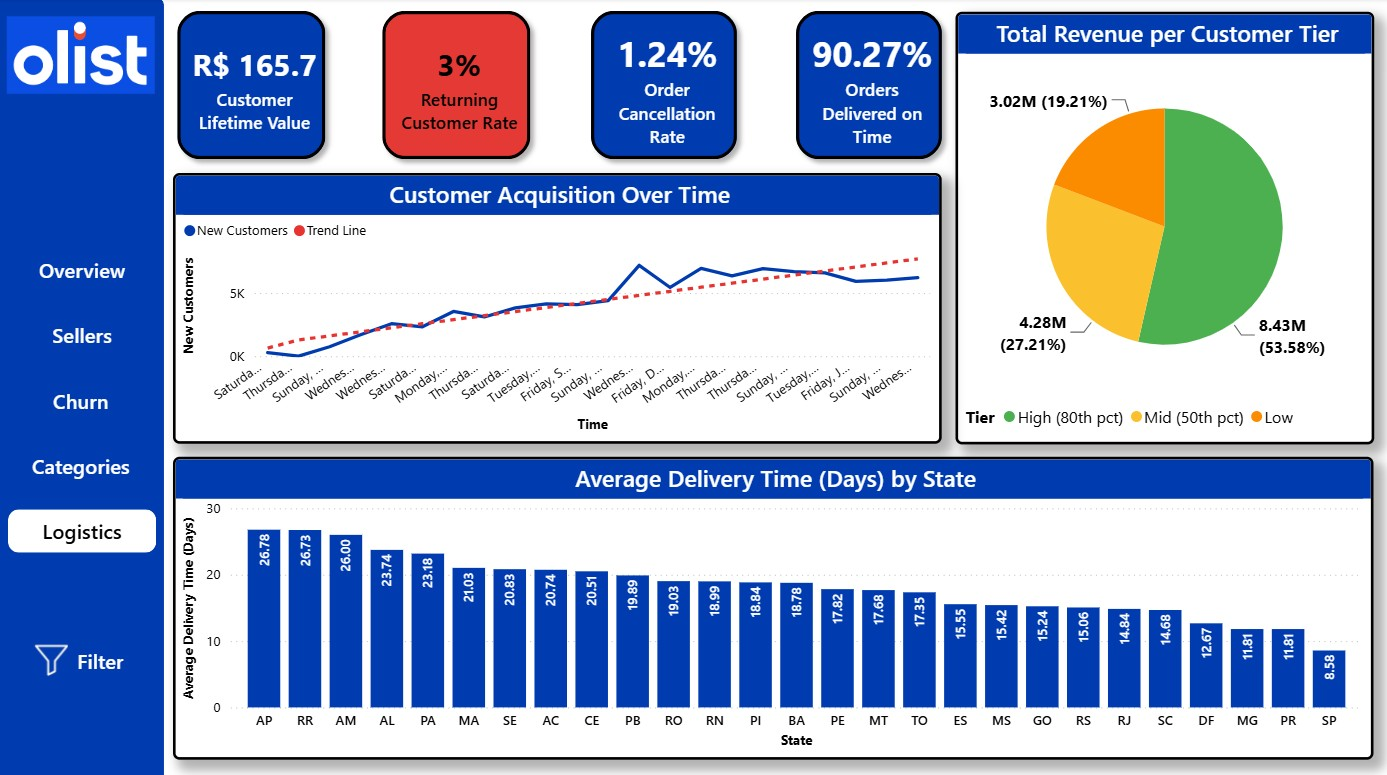
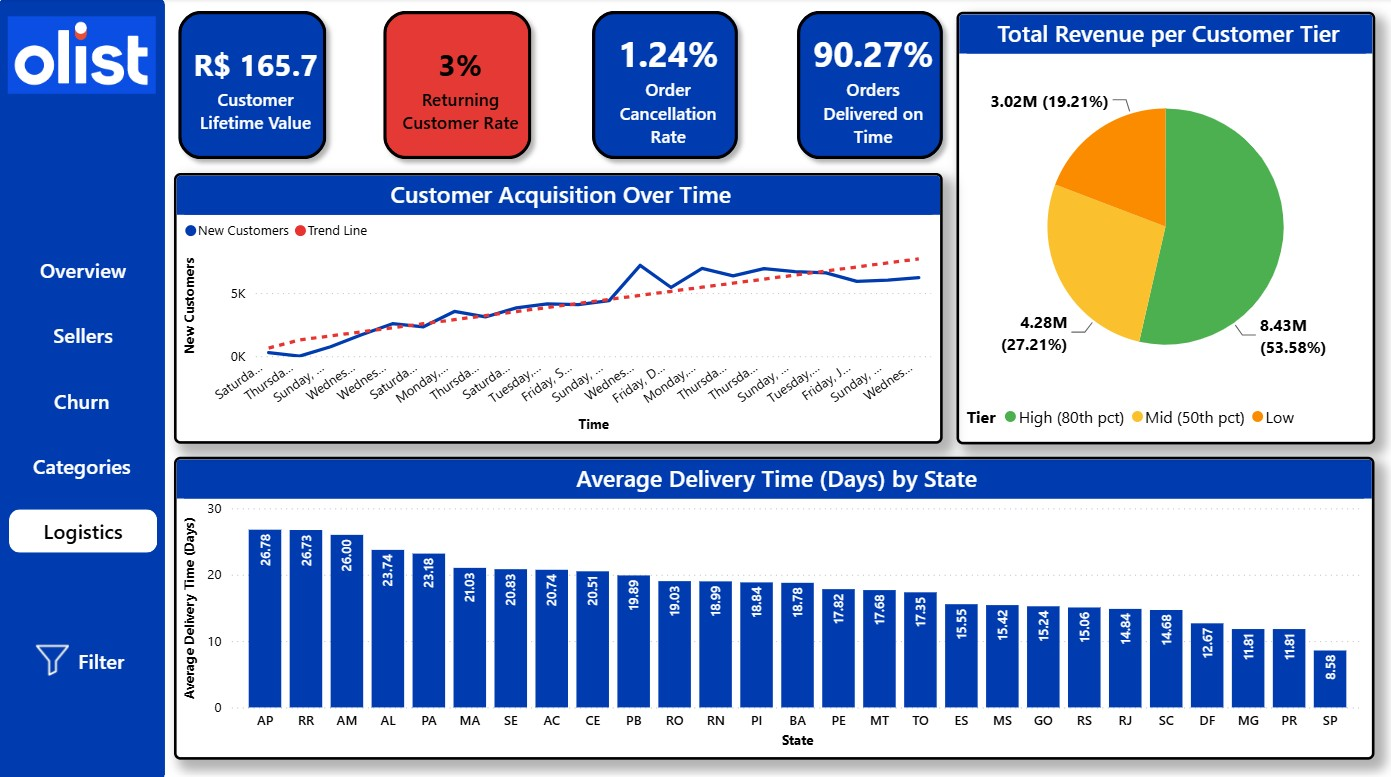
Update dashboard

diff --git a/README.md b/README.md
@@ -143,7 +143,7 @@ HAVING (DATE_TRUNC('month', order_date) + INTERVAL '1 month')
 ```
 
 **Page 5 — Customer & Delivery**
-![Customer & Delivery](dashboard/page5_customer_and_delivery.jpg)
+![Customer & Delivery](dashboard/page5_logistics.jpg)
 
 **Business question: Who are our customers, and are they getting a reliable delivery experience?**
 